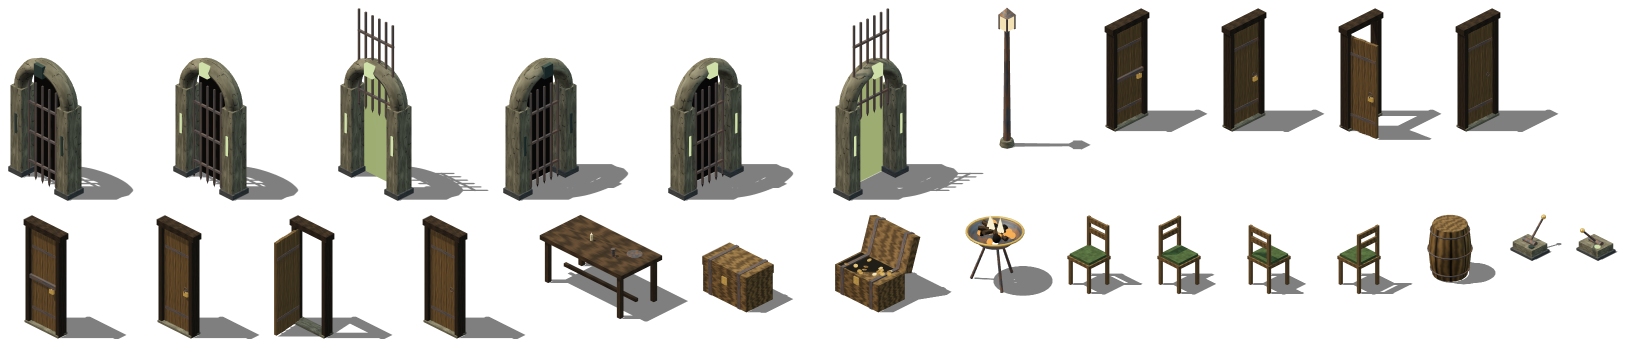
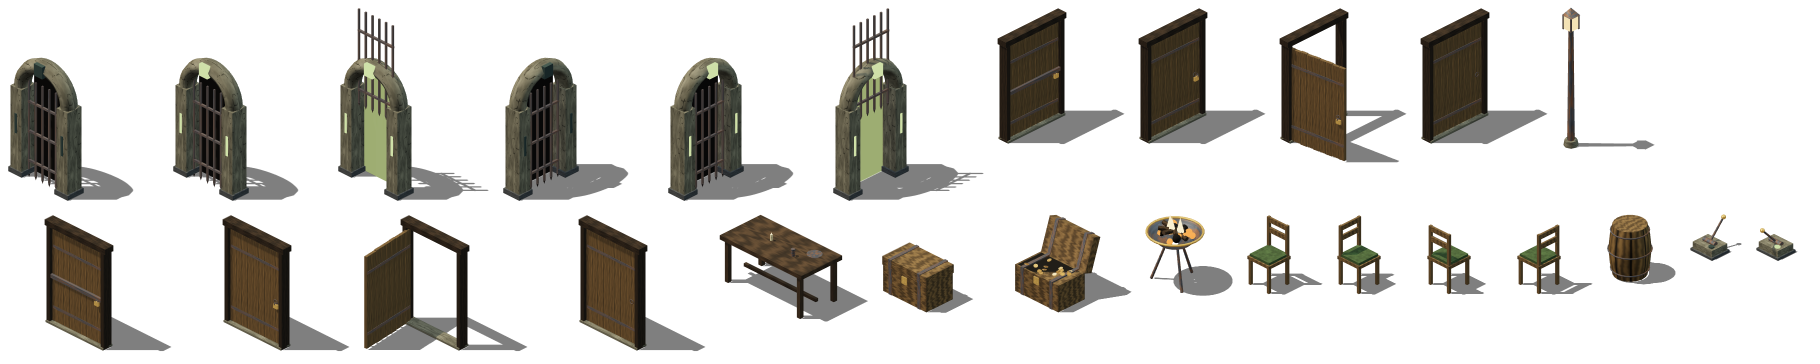
feat(client): the door, its frame and its heads are baked for an 80 px gap, the review mock with a two-tile doorway (I-MMA2H-2)
Implements FS-MMA2H §B R8, §E R17-R22. One leaf of nine planks, the frame's
clearance to each jamb unchanged; the heads take the gap's width from the door
sheets' own. Rewrites the props and building atlases: other sheets in them
moved, none changed.

diff --git a/game-client/tools/bake/page/models/building.js b/game-client/tools/bake/page/models/building.js
@@ -23,6 +23,7 @@ import { cssRgb, grey, mix, shade } from "../palette.js";
 import { canvasTexture, materials, mkCanvas, pixelTexture, TONE } from "../materials.js";
 import { part } from "./util.js";
 import { ROOF_RISE, wallPiece, WALL_BACK } from "./architecture.js";
+import { DOOR_GAP } from "./interactables.js";
 import { masonry, PX, roughBox, stoneMat, towerMaterials } from "./tower.js";
 
 /** A piece is one tile along its axis plus the hair of overlap the timber pieces use. */
@@ -35,8 +36,8 @@ const PROUD = 0.13;
 
 /** A doorway's head height: a masonry exterior's string course runs level with it. */
 const OPEN_H = 2.4;
-/** A door gap: the run door's width (50 world px of a 40 px tile). */
-const GAP_W = 50 / 40;
+/** A door gap: the run door's width (80 world px of a 40 px tile), the door sheets' own. */
+const GAP_W = DOOR_GAP;
 /** The top of the run door's lintel (interactables.js: DOOR_H 2.4, its lintel 0.14 at +0.12). */
 const LINTEL_TOP = 2.4 + 0.19;
 
@@ -435,7 +436,7 @@ export function towerCap(variant) {
 /**
  * The wall over a doorway (FS-9PN7X §B.5, §F.4, amended 2026-11-03): the run door stands lower
  * than the walls, so from its lintel to the coping the gap is closed by the type's own outward
- * face, as wide as the gap (50 world px). Without it the room shows over a door from outside.
+ * face, exactly as wide as the gap (80 world px). Without it the room shows over a door from outside.
  * `type` is timber | masonry; `axis` x runs along world x, y along world y, as the door sheets do.
  */
 export function doorHead(type, axis) {
@@ -446,13 +447,11 @@ export function doorHead(type, axis) {
     const M = materials();
     const W = Math.round(128 * GAP_W);
     const Hp = Math.round(128 * h);
-    // the wall plate along the top and a king stud over the door, as a timber wall's frame
+    // the wall plate along the top, a king stud over the door and a stud at each quarter, half a
+    // tile apart as a timber wall's frame
     const map = timberFace(W, Hp, 61, {
       plinth: 0,
-      frame: [
-        [0, 0, W, 12],
-        [W / 2 - 5, 12, 10, Hp - 12],
-      ],
+      frame: [[0, 0, W, 12], ...[1, 2, 3].map((k) => [(k * W) / 4 - 5, 12, 10, Hp - 12])],
     });
     const face = new THREE.MeshStandardMaterial({ map, bumpMap: map, bumpScale: 0.6, roughness: 0.92 });
     g.add(part(new THREE.BoxGeometry(GAP_W, h, THICK), [M.cap, M.cap, M.cap, M.cap, face, face], { y: LINTEL_TOP + h / 2 }));
@@ -464,7 +463,8 @@ export function doorHead(type, axis) {
     g.add(part(new THREE.BoxGeometry(GAP_W, 0.1, 0.26), T.cap, { y: H + 0.05 }));
     // the string course and the corbel table carried on across the head, as on the walls beside it
     g.add(part(roughBox(GAP_W, 0.1, PROUD * 2, 85, 0.02), T.blockLight, { y: OPEN_H + 0.21 }));
-    for (const x of [-0.5, -0.25, 0, 0.25, 0.5])
+    // a quarter tile apart, the first an eighth in from each jamb, as a wall piece's
+    for (let x = -GAP_W / 2 + 0.125; x < GAP_W / 2; x += 0.25)
       g.add(part(roughBox(0.12, 0.14, 0.05, 89 + Math.round(x * 8), 0.05), T.blockLight, { x, y: H - 0.17, z: P_THICK / 2 + 0.006 }));
   }
   if (axis === "y") g.rotation.y = Math.PI / 2;

diff --git a/game-client/tools/bake/page/models/interactables.js b/game-client/tools/bake/page/models/interactables.js
@@ -9,7 +9,15 @@ import { glow, materials, pixelTexture, plain, textured } from "../materials.js"
 import { joint, part, scaled, V3 } from "./util.js";
 
 const DOOR_H = 2.4;
-const DOOR_W = 0.84;
+/** A door gap: 80 world px of a 40 px tile, two tiles (game-service `runDoorWidth`, FS-MMA2H). */
+export const DOOR_GAP = 80 / 40;
+/** The oak frame's posts, and the clearance the frame leaves to the wall's jamb on each side. */
+const FRAME = 0.1;
+const CLEAR = 0.105;
+/** The leaf: what the gap leaves inside the frame, 63.6 world px. One leaf, hinged at its west end. */
+const DOOR_W = DOOR_GAP - 2 * (FRAME + CLEAR);
+/** A plank's width, about: a wider leaf has more planks, not wider ones. */
+const PLANK = 0.17;
 
 function padlock(M, open) {
   const g = new THREE.Group();
@@ -31,14 +39,14 @@ export function door(state, axis) {
   const M = materials();
   const g = new THREE.Group();
   for (const sx of [-1, 1])
-    g.add(part(new THREE.BoxGeometry(0.1, DOOR_H + 0.1, 0.24), M.beam, { x: sx * (DOOR_W / 2 + 0.05), y: (DOOR_H + 0.1) / 2 }));
+    g.add(part(new THREE.BoxGeometry(FRAME, DOOR_H + 0.1, 0.24), M.beam, { x: sx * (DOOR_W / 2 + FRAME / 2), y: (DOOR_H + 0.1) / 2 }));
   g.add(part(new THREE.BoxGeometry(DOOR_W + 0.3, 0.14, 0.26), M.beam, { y: DOOR_H + 0.12 }));
   g.add(part(new THREE.BoxGeometry(DOOR_W + 0.2, 0.05, 0.3), M.stone, { y: 0.025 }));
 
   const hinge = joint(g, -DOOR_W / 2, 0, 0);
   const leaf = new THREE.Group();
   hinge.add(leaf);
-  const planks = 5;
+  const planks = Math.round(DOOR_W / PLANK);
   const pw = DOOR_W / planks;
   const R = rng(axis === "x" ? 31 : 37);
   for (let i = 0; i < planks; i++)

diff --git a/game-client/src/render/iso/projection.ts b/game-client/src/render/iso/projection.ts
@@ -36,8 +36,8 @@ export const TILE_HEIGHT = 32;
  * - `PlayerRadius = 20` → a player's footprint is 40 world px across: one tile.
  * - run and hub wall thickness is `20` → half a tile, a wall reads as a wall and
  *   not as a floor strip.
- * - a run building's door gap is `50` → 1.25 tiles, one player wide with room to
- *   spare, which is what walking through it feels like.
+ * - a run building's door gap is `80` → 2 tiles, two players wide, which is what
+ *   walking through it feels like.
  *
  * So 40. At this scale one world pixel moves a sprite about 0.9 screen px, and
  * the run map (1440×960) projects to a 1920×960 diamond.
